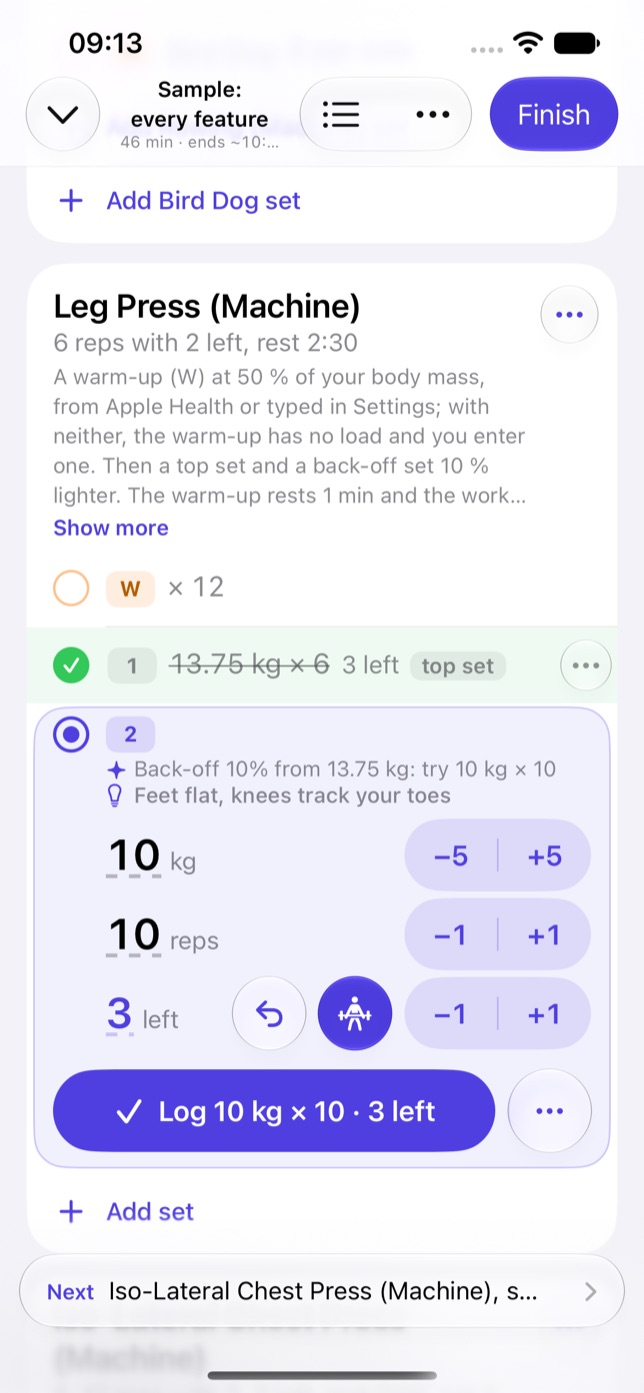
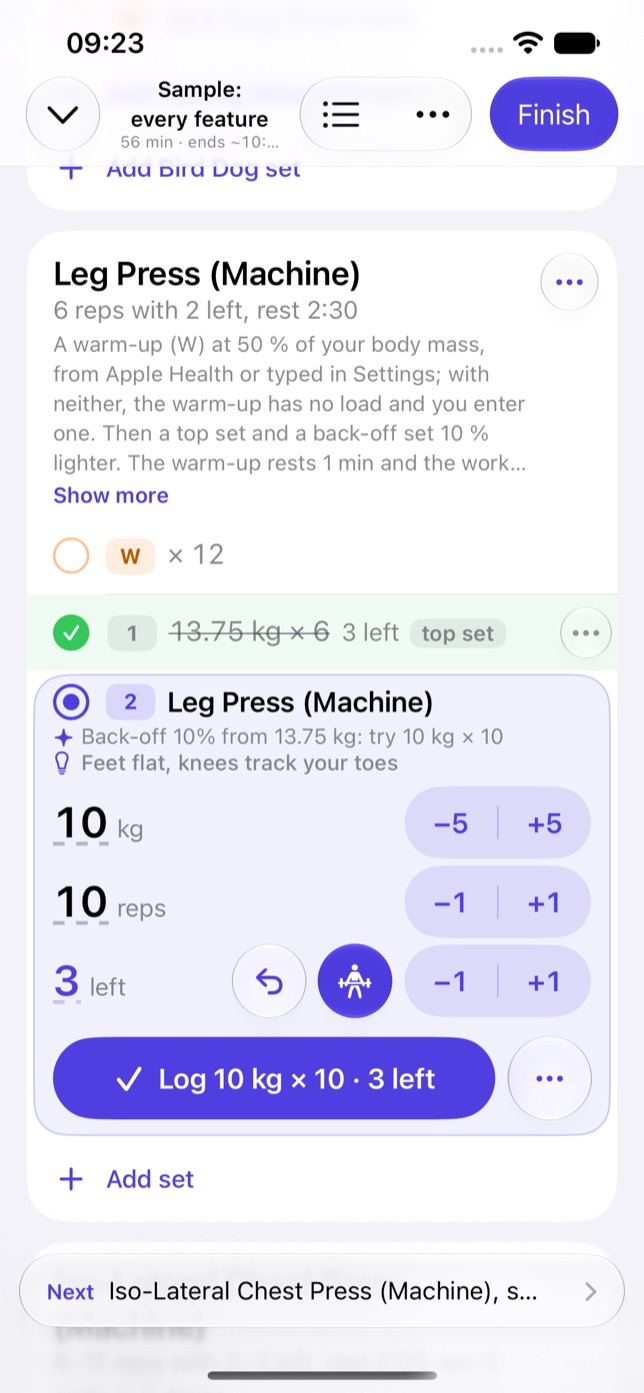
feat(workouts): the open set names its exercise, and its contents sit flush with the panel's edge
Every editor's title is the exercise's name, with a chain's part after it, as a group's already was: the card's title is often scrolled away from the set open in it. A line keeps the shorter caption. A plain exercise's warm-up note reads "warm-up 1 of 2", since the title is now the exercise.

The 32 pt indent under the header is gone: the note, the cue, the values and reps left start at the ring, and the width goes to the values and the round buttons. The screenshots are retaken on this build.

diff --git a/apps/workouts/WorkoutsKit/Sources/WorkoutsCore/Present/Rows/RowsPresenter.swift b/apps/workouts/WorkoutsKit/Sources/WorkoutsCore/Present/Rows/RowsPresenter.swift
@@ -423,6 +423,10 @@ struct RowsBuilder {
         let title = title(row, head: head, isGroup: isGroup)
         let setLabel = view?.label.short ?? ""
         let caption = caption(row, head: head, isGroup: isGroup)
+        // An editor names its exercise as a group's does, plain exercise or
+        // not: the card's title is often scrolled away from the set open in
+        // it (owner, 2026-11-06). A line keeps the shorter caption.
+        let editorCaption = self.caption(row, head: head, isGroup: true)
         let ghost = evaluator.ghost(row.id)
         let typedOnlyReps = row.isPending && row.entered.reps == nil
         let placeholder = typedOnlyReps ? ghost.repsPlaceholder : nil
@@ -491,7 +495,7 @@ struct RowsBuilder {
         if rowState == .now, let view {
             let source = editorSource(
                 row, head: head, view: view, mode: .log, title: title, setLabel: setLabel,
-                caption: caption, isGroup: isGroup)
+                caption: editorCaption)
             let rpe: RowRPE = if case .prefill = view.rpeEntry, !p.settings.prefillsRPE { .none } else { view.rpeEntry }
             let running = p.timedID == row.id
             editor = source.editor(
@@ -502,7 +506,7 @@ struct RowsBuilder {
         if let done, let view {
             let source = editorSource(
                 row, head: head, view: view, mode: .fix, title: title, setLabel: setLabel,
-                caption: caption, isGroup: isGroup)
+                caption: editorCaption)
             fix = RowsFix(row: row.id, logged: done, source: source)
         }
         return RowsSetItem(
@@ -594,7 +598,7 @@ struct RowsBuilder {
 
     func editorSource(
         _ row: Row, head: Row, view: SetRowPresentation, mode: RowsEditor.Mode, title: String,
-        setLabel: String, caption: String?, isGroup: Bool
+        setLabel: String, caption: String?
     ) -> RowsEditorSource {
         let exercise = state.exercise(ofRow: row.id)
         let measurement = exercise?.measurement ?? .weightreps
@@ -625,10 +629,10 @@ struct RowsBuilder {
             } else if head.role == .warmup, row.isHead, warmups > 1,
                 !(state.slot(row.slot)?.group.map { UpNext.isWarmupCircuit(group: $0, in: state) } ?? false)
             {
-                // "of 2" follows "Warm-up 1". A group's title is the exercise, so
-                // the note names the warm-up; a warm-up circuit's round says it.
+                // The title is the exercise, so the note names the warm-up;
+                // a warm-up circuit's round says it.
                 let ordinal = state.ordinal(of: row.id) ?? 1
-                note = RowsNote(text: isGroup ? "warm-up \(ordinal) of \(warmups)" : "of \(warmups)", kind: .status)
+                note = RowsNote(text: "warm-up \(ordinal) of \(warmups)", kind: .status)
             } else if role == .drop, ghost.repsPlaceholder != nil {
                 note = RowsNote(text: GhostValues.toFailure, kind: .status)
             } else if isMini, let load = Format.load(shown, mode: measurement.loadMode), load != "BW" {

diff --git a/apps/workouts/apple/Sources/Views/Session/Rows/RowsEditorPanel.swift b/apps/workouts/apple/Sources/Views/Session/Rows/RowsEditorPanel.swift
@@ -26,7 +26,6 @@ struct RowsEditorPanel: View {
     @Environment(CoverModel.self) private var cover
     @Environment(RowsScreenModel.self) private var screen
     @Environment(\.dynamicTypeSize) private var typeSize
-    @ScaledMetric(relativeTo: .body) private var indent: CGFloat = 32
 
     private var tint: Color { RowsStyle.tint(editor.tint) }
 
@@ -46,7 +45,6 @@ struct RowsEditorPanel: View {
                         .foregroundStyle(.secondary)
                         .fixedSize(horizontal: false, vertical: true)
                 }
-                .padding(.leading, typeSize.isAccessibilitySize ? 0 : indent)
                 .padding(.bottom, 4)
                 .accessibilityElement(children: .combine)
                 .accessibilityLabel("Cue: \(cue)")
@@ -54,7 +52,6 @@ struct RowsEditorPanel: View {
             // Running, the clock and the track replace the duration field.
             if let timer = editor.timer, timer.phase != .ready {
                 RowsTimerView(timer: timer, tint: tint)
-                    .padding(.leading, typeSize.isAccessibilitySize ? 0 : indent)
             }
             ForEach(editor.fields) { field in
                 RowsFieldRow(
@@ -64,12 +61,10 @@ struct RowsEditorPanel: View {
                     onKeypad: { screen.openKeypad(field, in: editor, session: session) },
                     onPatch: { screen.apply($0, row: editor.row, mode: editor.mode, session: session) }
                 )
-                .padding(.leading, typeSize.isAccessibilitySize ? 0 : indent)
             }
             // Ready, the track under the duration shows the goal and last time.
             if let timer = editor.timer, timer.phase == .ready {
                 RowsTimerView(timer: timer, tint: tint)
-                    .padding(.leading, typeSize.isAccessibilitySize ? 0 : indent)
             }
             if let effort = editor.effort, !effort.isCollapsed || screen.openStrips.contains(editor.row) {
                 // A third value under load and reps, built like them, so the
@@ -79,7 +74,6 @@ struct RowsEditorPanel: View {
                     tint: tint,
                     onPatch: { screen.step($0, in: editor, session: session) }
                 )
-                .padding(.leading, typeSize.isAccessibilitySize ? 0 : indent)
             }
             buttons
                 .padding(.top, 10)
@@ -154,7 +148,6 @@ struct RowsEditorPanel: View {
                     trailing
                 }
                 noteSlot(lines: typeSize.isAccessibilitySize ? nil : 2)
-                    .padding(.leading, typeSize.isAccessibilitySize ? 0 : indent)
                     .fixedSize(horizontal: false, vertical: true)
             }
         }

diff --git a/apps/workouts/WorkoutsKit/Tests/WorkoutsCoreTests/RowsPresenterTests.swift b/apps/workouts/WorkoutsKit/Tests/WorkoutsCoreTests/RowsPresenterTests.swift
@@ -155,7 +155,8 @@ struct RowsOpenSetTests {
 
         let editor = try #require(set2.editor)
         #expect(editor.mode == .log && editor.tint == .accent && editor.title == "Set 2" && editor.setLabel == "2")
-        #expect(editor.caption == nil)
+        // The editor names its exercise even outside a group; the line does not.
+        #expect(editor.caption == "Leg Press (Machine)" && set2.caption == nil)
         #expect(editor.note == RowsNote(text: "Set 1: 105 kg × 10, assuming 2 left; try 105 kg × 10", kind: .reason))
         #expect(editor.fields.map(\.field) == [.load, .reps])
         let load = try #require(editor.field(.load))
@@ -320,7 +321,7 @@ struct RowsOpenSetTests {
         #expect(warmup.role == .warmup && warmup.values == "40 kg × 12" && warmup.last == "last 40 × 12")
         let editor = try #require(warmup.editor)
         #expect(editor.tint == .orange && editor.title == "Warm-up 1")
-        #expect(editor.note == RowsNote(text: "of 2", kind: .status))
+        #expect(editor.note == RowsNote(text: "warm-up 1 of 2", kind: .status))
         #expect(editor.effort?.isCollapsed == true && editor.effort?.addTitle == "Reps left")
         // A warm-up says no reason for stopping.
         #expect(editor.effort?.stop == nil)

diff --git a/apps/workouts/WorkoutsKit/Sources/WorkoutsCore/Present/Rows/RowsEditor.swift b/apps/workouts/WorkoutsKit/Sources/WorkoutsCore/Present/Rows/RowsEditor.swift
@@ -35,7 +35,8 @@ public struct RowsEditor: Codable, Equatable, Sendable {
     public var title: String
     /// The set's small label, as its line shows it: `W`, `2`, `2a`.
     public var setLabel: String
-    /// Beside the label: the exercise in a group, `Drop`, `Mini-set 3`; nil for a plain set.
+    /// Beside the label: the exercise, with a chain's part after it
+    /// (`Leg Press (Machine), drop`).
     public var caption: String?
     /// The header line after the title: the suggestion's reason, `after the rest`,
     /// `of 2` (in a group `warm-up 1 of 2`), `to failure`, `at 6 kg`, `holding`,

diff --git a/apps/workouts/DESIGN.md b/apps/workouts/DESIGN.md
@@ -2227,16 +2227,18 @@ in orange once the chain has ended.
 filled with the accent at 8 % and a 1 pt accent line (orange for a warm-up or a drop; the card's colour with a grey
 line when fixing). In order:
 
-- The header, at least 36 pt: the ring, the badge and title (17 pt semibold), the note (a sparkle and the suggestion's
-  reason in 13 pt; a status such as "of 2" (in a group, after the exercise's name, "warm-up 1 of 2"; none in a warm-up
-  circuit, whose round says it) or "logged at 12:06" in 15 pt; a red dot and "holding"; never "after the
+- The header, at least 36 pt: the ring, the badge and title (17 pt semibold: the exercise's name, in a group or not,
+  since the card's own title is often scrolled away from the set open in it; a chain's part after it, owner,
+  2026-11-06), the note (a sparkle and the suggestion's reason in 13 pt; a status such as "warm-up 1 of 2" (none in a
+  warm-up circuit, whose round says it) or "logged at 12:06" in 15 pt; a red dot and "holding"; never "after the
   rest": a set waits for nothing), and on the right a plus symbol and "Reps left" on one line while reps left are folded, `trailingNote` ("no rest", orange), and Cancel when fixing; the set menu `…` is
   beside Log, not in the header, so the title keeps the width (owner, 2026-11-06). The note sits beside the title when it fits, else on its own line under it. After
   a reps-left step the new value's meaning ("1 left: very hard") shows in the note's place for 2.5 s without
   changing the header's height.
 - The slot's cue, when the routine gives one (`RowsEditor.cue`): a lightbulb and one line in 13 pt secondary,
-  indented to the values. The slot's notes stay above the block, folded past five lines.
-- Each value on a row of at least 48 pt, indented to the title, the same for load, reps and reps left (owner,
+  flush with the panel's edge, as everything under the header is. The slot's notes stay above the block, folded past five lines.
+- Each value on a row of at least 48 pt, flush with the ring (no indent: the width goes to the values and the round
+  buttons, owner, 2026-11-06), the same for load, reps and reps left (owner,
   2026-11-06): the number at 26 pt semibold with monospaced digits and a faint dotted underline (a tap opens the
   keypad; the target is at least 44 pt tall), its unit (15 pt secondary) and `last` (13 pt secondary) under them; on
   the right, under the thumb, the row's round buttons and then the stepper: one tinted capsule, 44 pt tall, two 56 pt

diff --git a/apps/workouts/README.md b/apps/workouts/README.md
@@ -427,7 +427,8 @@ larger text puts each value on a line of its own, steppers kept.
 | ![RPE label](docs/screenshots/session-after-rpe-label.jpg) | ![AX docked](docs/screenshots/session-after-accessibility-size.jpg) | ![AX timed](docs/screenshots/session-after-accessibility-timed.jpg) | ![AX Stop](docs/screenshots/session-after-accessibility-stop.jpg) |
 
 The open set's values after the owner's feedback from the gym (2026-11-06,
-iPhone 17e simulator, the narrowest phone): load, reps and reps left built the
+iPhone 17e simulator, the narrowest phone): the open set named after its
+exercise, flush with the panel's edge, and load, reps and reps left built the
 same, each with its last time under the number and, beside its steps, the
 reset and (on reps left) why the set ended as round buttons; the keypad sets
 the field as each key is typed, so Log never takes the old value, with Done

diff --git a/apps/workouts/WorkoutsKit/API.md b/apps/workouts/WorkoutsKit/API.md
@@ -195,8 +195,9 @@ open row; apply it to the draft when fixing (below).
 
 - `mode`: `log` for the set to do now, `fix` for a done one. `tint`: `accent`, `orange` (warm-up, drop) or `neutral`
   (fix).
-- The header: `title` and `badge`, `note` and `trailingNote` ("no rest").
-  - `note.kind` is `reason` (a sparkle before the suggestion's words) or `status` ("of 2", "to failure", "at 6 kg",
+- The header: `setLabel` and `caption` (the exercise's name, a chain's part after it, on every editor; a line shows
+  it only in a group), `note` and `trailingNote` ("no rest"). `title` is the set as said aloud.
+  - `note.kind` is `reason` (a sparkle before the suggestion's words) or `status` ("warm-up 1 of 2", "to failure", "at 6 kg",
     "logged at 12:06"). There is no "after the rest": a set waits for nothing.
   - It is `running` (a red dot) for "holding".
 - `fields`, each a `RowsField`:
